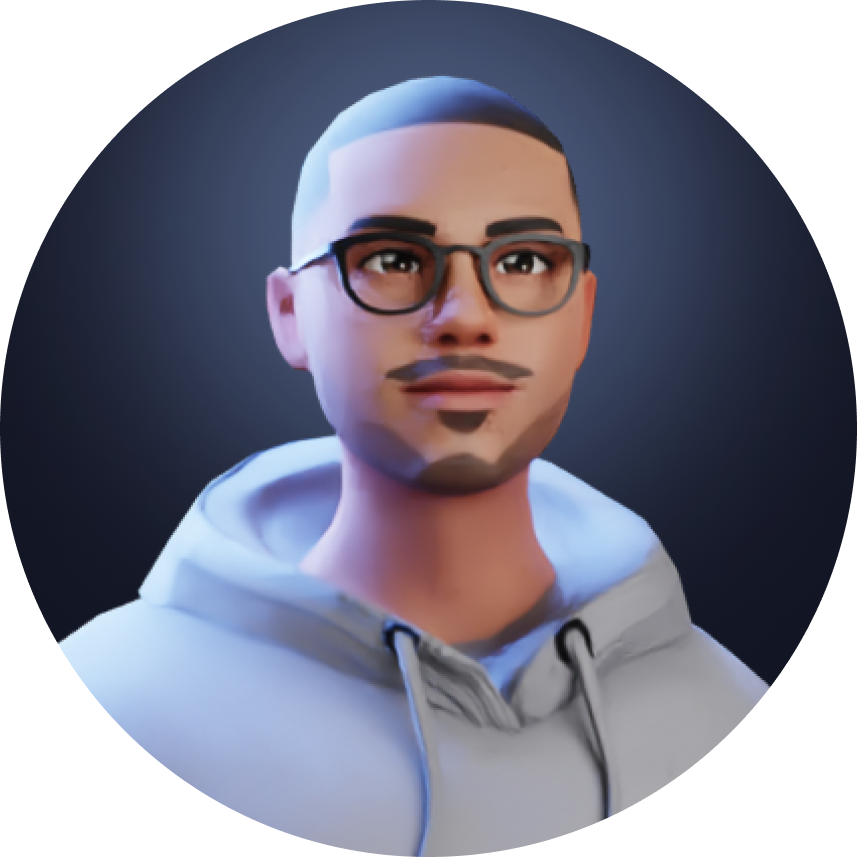
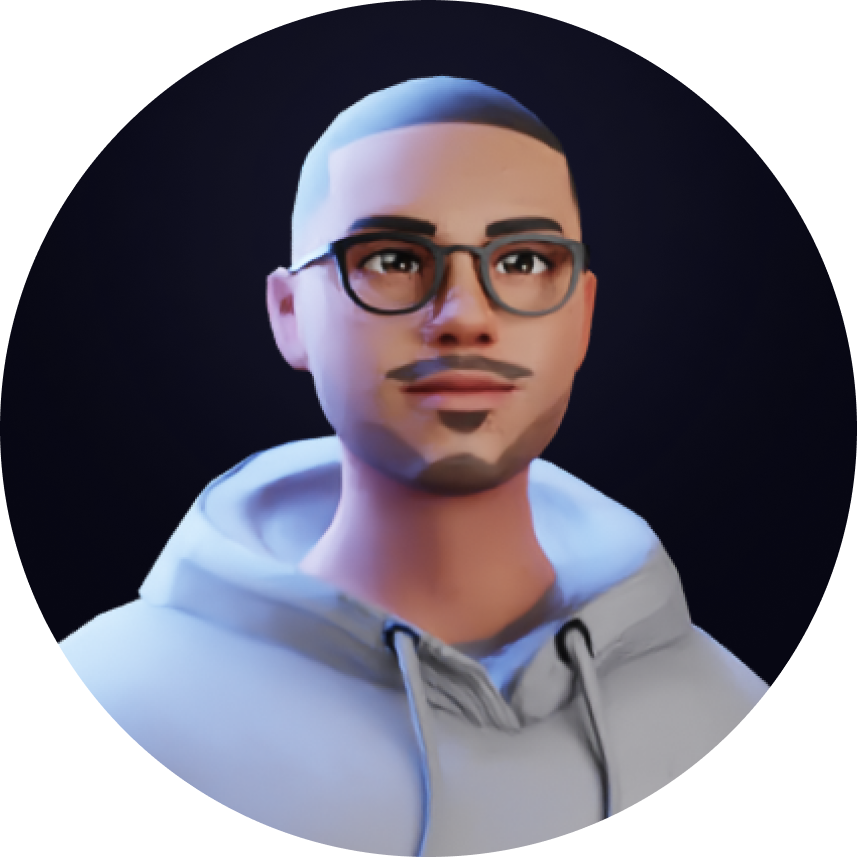
Atualando cores do site

Changed region(s): [[0.0303, 0.0, 1.0, 0.6674]]

diff --git a/assets/css/style.css b/assets/css/style.css
@@ -1,11 +1,11 @@
-@import url('https://fonts.googleapis.com/css2?family=Poppins:ital,wght@0,100;0,200;0,300;0,400;0,500;0,600;0,700;0,800;0,900;1,100;1,200;1,300;1,400;1,500;1,600;1,700;1,800;1,900&display=swap');
+@import url('https://fonts.googleapis.com/css2?family=Noto+Sans:ital,wght@0,100;0,200;0,300;0,400;0,500;0,600;0,700;0,800;0,900;1,100;1,200;1,300;1,400;1,500;1,600;1,700;1,800;1,900&family=Poppins:wght@300;400;500;600;700&display=swap');
 
 :root {
-    --bg-color: #151515;
-    --bg-footer: #2d2d2d;
+    --bg-color: #070713;
+    --bg-footer: #0C0A1B;
     --color-white: #ececec;
-    --linear-color1: #0DCCFF;
-    --linear-color2: #4760FF;
+    --linear-color1: #465DFB;
+    --linear-color2: #465DFB;
 }
 
 * {
@@ -49,7 +49,7 @@ body {
     padding-top: 3.2rem;
     color: var(--color-write);
     background-color: var(--bg-color);
-    font-family: "Poppins", sans-serif;
+    font-family: "Noto Sans", sans-serif;
 }
 
 /* Cabeçalho */
@@ -66,7 +66,7 @@ header img {
     width: 160px;
     border-radius: 50%;
     margin-bottom: 1rem;
-    border: 2px solid #0DCCFF;    
+    border: 2px solid var(--color-white);    
 }
 
 header h1{
@@ -78,7 +78,7 @@ header p {
     margin-top: 0.1rem;
     font-weight: 500;
     font-size: 1.3em;
-    color: #606060;
+    color: #465DFB;
 }
 
 main {
@@ -130,7 +130,7 @@ section div article h2 {
     font-size: 1.1rem;
 }
 
-/* Footer */
+/* Footer
 
 .line-linear {
     height: 0.9vh;
@@ -148,7 +148,7 @@ footer {
 
 footer > h3 {
     justify-content: center;
-}
+} */
 
 /* ----------------------------------------------------- */
 

diff --git a/index.html b/index.html
@@ -7,7 +7,7 @@
     <link rel="stylesheet" href="assets/css/style.css">
     <link rel="icon" type="image/png" sizes="32x32" href="assets/img/foto-perfil.png" />
 
-    <title>Erik Nathan - Links</title>
+    <title>Erik Nathan | Links</title>
 </head>
 <body>
     <header>
@@ -127,11 +127,11 @@
         </section>
     </main>
     
-    <div id="footer">
+    <!-- <div id="footer">
         <div class="line-linear"></div>
         <footer>
             <h3> <strong>Erik Nathan</strong> | @erik.coding</h3>
         </footer>
-    </div>
+    </div> -->
 </body>
 </html>
